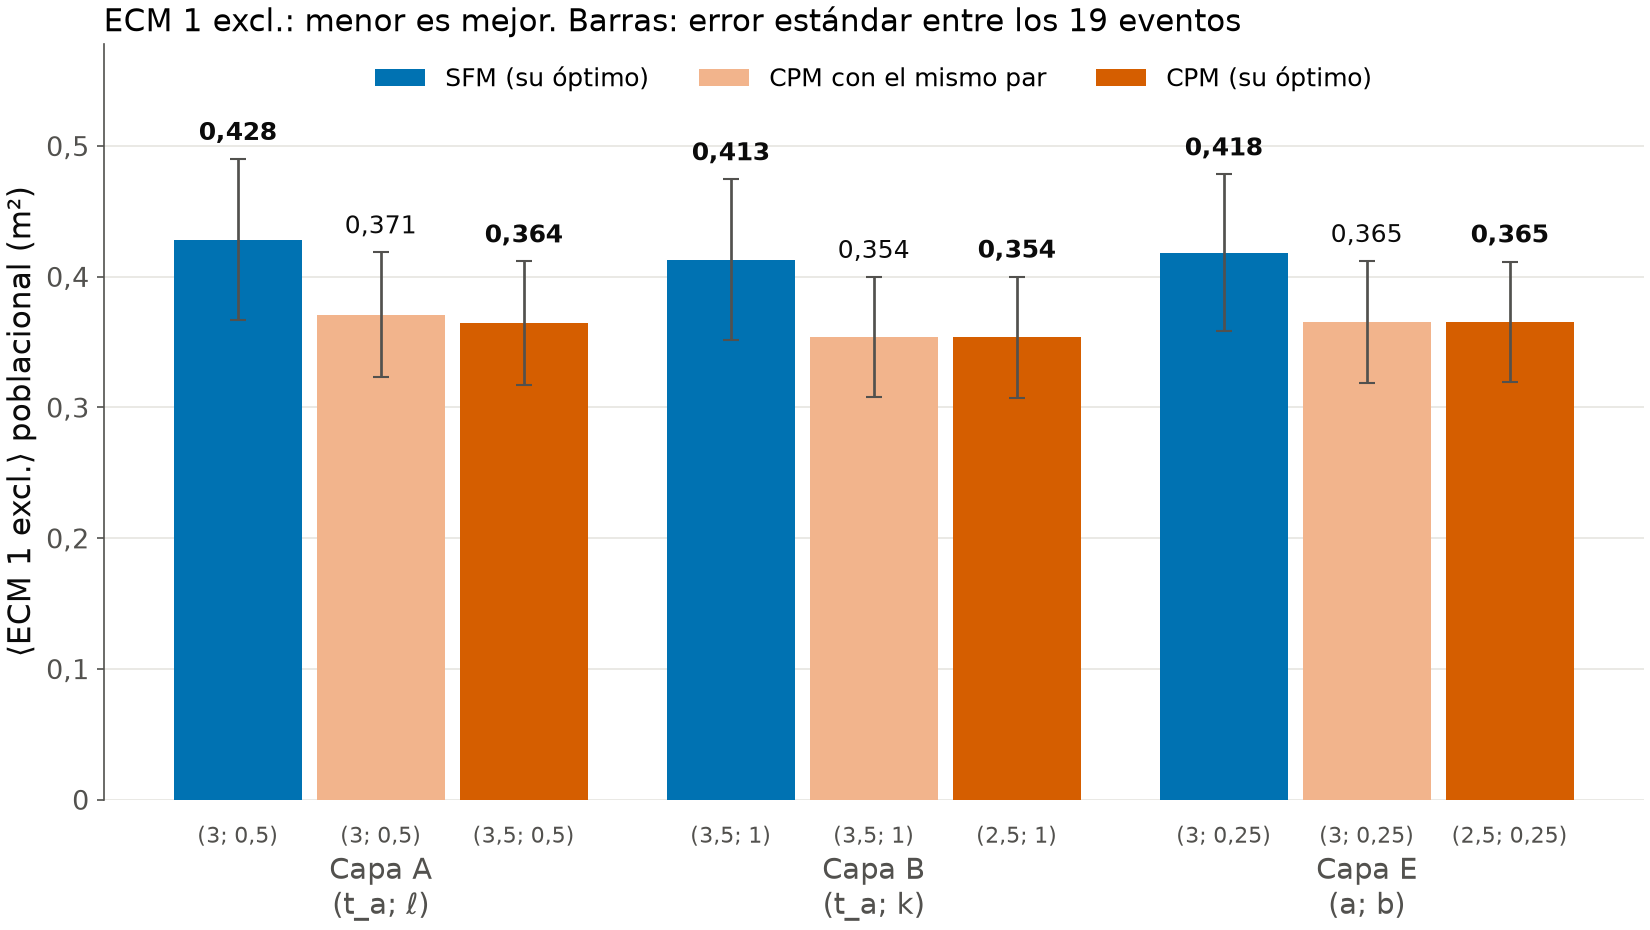
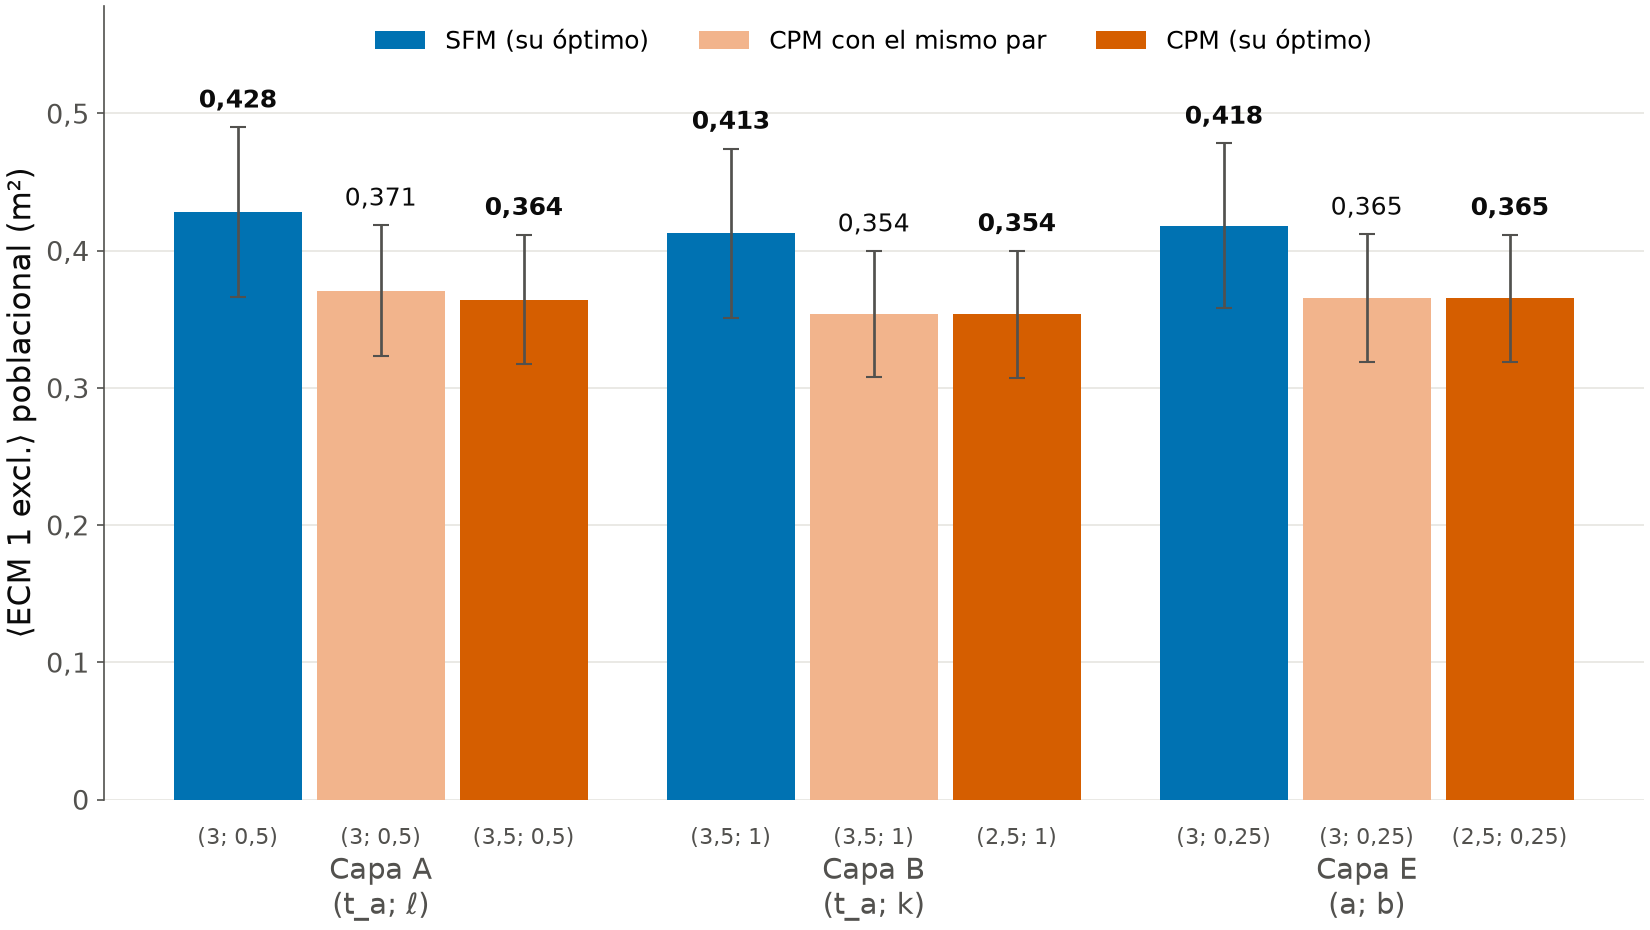
feat: removed titles from last graphs and p from slide 26

diff --git a/TP5/scripts/graph_gen/cpm_compare.py b/TP5/scripts/graph_gen/cpm_compare.py
@@ -221,7 +221,6 @@ def figures(sfm, cpm, optimum):
         ax.tick_params(axis="x", length=0, pad=26)
         ax.set_ylim(0, top * 1.18)
         ax.set_ylabel(f"⟨{label}⟩ poblacional (m²)")
-        ax.set_title(f"{label}: menor es mejor. Barras: error estándar entre los 19 eventos", loc="left")
         ax.grid(axis="y", color=GRID, lw=0.8)
         ax.set_axisbelow(True)
         ax.yaxis.set_major_formatter(COMMA)

diff --git a/TP5/presentacion/presentacion_tp5.tex b/TP5/presentacion/presentacion_tp5.tex
@@ -784,8 +784,8 @@
 \end{frame}
 
 \begin{frame}[c]{Sensibilidad a la velocidad inicial}
-  \resultadofigura{figuras/V0-sensibilidad.pdf}{5.5cm}{ECM 1 con ajuste inicial de 3, 5 y 7 cuadros y con rapidez deseada}
-    {\item $\rho = 0{,}9$ m}{}{}
+  \centering
+  \includegraphics[width=\textwidth,height=5.5cm,keepaspectratio]{figuras/V0-sensibilidad.pdf}
 \end{frame}
 
 \begin{frame}{Distancia mínima y corrimiento}
